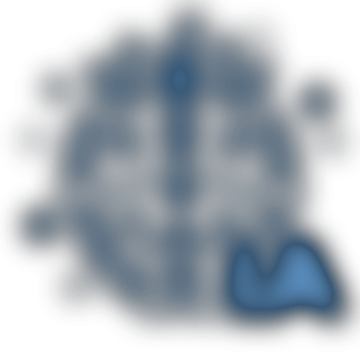
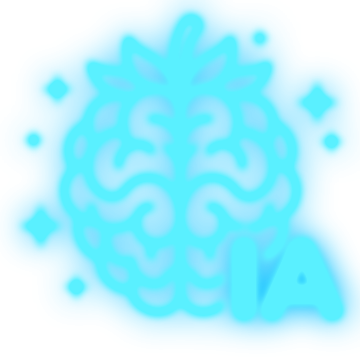
IA+: el ki rojo se mueve siempre; Entrenador IA con brillo neón cian
El aura del botón IA+ se detenía para siempre si el botón se creaba antes de que
su pantalla estuviera a la vista (o al salir y volver). Ahora solo se salta el
cuadro mientras no se ve. El ícono Entrenador IA del inicio tiene un halo neón
cian continuo con un pulso leve y un parpadeo corto de vez en cuando.

Claude-Session: https://claude.ai/code/session_01AQtHHbNtiHMaVCGrhptX3t

diff --git a/ui/screens.py b/ui/screens.py
@@ -767,7 +767,7 @@ class StartIcon(ButtonBehavior, BoxLayout):
     source = StringProperty()
     bubble = StringProperty("")
     glow = StringProperty("")
-    glow_level = NumericProperty(.55)   # brillo que «respira» (Entrenador IA)
+    glow_level = NumericProperty(.82)   # brillo neón (Entrenador IA)
     label = StringProperty()
     color = ColorProperty([0, 0, 0, 1])
     diameter = NumericProperty(dp(130))
@@ -821,13 +821,9 @@ class StartScreen(MDScreen):
         Clock.schedule_once(lambda *_: self.refresh(), 0)
 
     def on_enter(self, *_):
-        delay = 0
         if getattr(self, "_intro_ready", False):
             self._intro_ready = False
             self._play_intro()
-            delay = 1.0
-        self._breath_ev = Clock.schedule_once(lambda *_: self._breathe(), delay)
-
         self._t0 = time.monotonic()
         self._float_ev = Clock.schedule_interval(self._float, 1 / 30)
 
@@ -841,15 +837,21 @@ class StartScreen(MDScreen):
             k = math.sin(t * 1.5 + phase)
             w.bob = dp(4) * k
             w.pulse = 1 + .035 * math.sin(t * 1.5 + phase - .9)
+        self.ids.ic_ai.glow_level = self.neon(t)
+
+    @staticmethod
+    def neon(t: float) -> float:
+        """Brillo del Entrenador IA como un tubo de neón: encendido, con un pulso leve y,
+        cada tanto, un parpadeo corto (dos destellos)."""
+        level = .82 + .12 * math.sin(t * 2.2)
+        k = t % 7.0
+        if 5.0 < k < 5.08 or 5.16 < k < 5.22:
+            level = .35
+        return level
 
     def on_leave(self, *_):
         if getattr(self, "_float_ev", None):
             self._float_ev.cancel()
-        if getattr(self, "_breath_ev", None):
-            self._breath_ev.cancel()
-        if getattr(self, "_breath", None):
-            self._breath.cancel(self.ids.ic_ai)
-            self._breath = None
 
     # ------------------------------------------------------------ animación
     def _prepare_intro(self):
@@ -868,17 +870,6 @@ class StartScreen(MDScreen):
         for i, w in enumerate((self.ids.ic_id, self.ids.ic_predio, self.ids.ic_ai, self.ids.ic_nb)):
             anim = Animation(d=.12 + .11 * i) + Animation(reveal=1, lift=0, d=.38, t="out_back")
             anim.start(w)
-
-    def _breathe(self):
-        from kivy.animation import Animation
-        if getattr(self, "_breath", None):
-            return
-        # Tres «respiraciones» y queda quieto: una animación sin fin obliga a redibujar la
-        # pantalla completa 60 veces por segundo y resta fluidez al resto.
-        step = Animation(glow_level=1, d=1.4, t="in_out_sine") + Animation(glow_level=.5, d=1.4, t="in_out_sine")
-        anim = step + step + step + Animation(glow_level=.8, d=.8)
-        self._breath = anim
-        anim.start(self.ids.ic_ai)
 
     # --------------------------------------------------------------- textos
     @staticmethod

diff --git a/tools/make_start_assets.py b/tools/make_start_assets.py
@@ -186,6 +186,17 @@ def notebook_icon():
     blob(420, (238, 218, 184), 811).save(os.path.join(UI, "blob_notebook.png"))   # ocre claro
 
 
+def neon_glow(ai):
+    """Brillo neón cian del Entrenador IA: un halo cercano intenso y otro amplio y tenue,
+    del mismo tamaño que el ícono (se dibuja detrás, alineado con las líneas)."""
+    near = tint(ai, (90, 240, 255)).filter(ImageFilter.GaussianBlur(4))
+    near.putalpha(near.split()[3].point(lambda v: min(255, int(v * 2.6))))
+    far = tint(ai, (40, 200, 255)).filter(ImageFilter.GaussianBlur(16))
+    far.putalpha(far.split()[3].point(lambda v: min(255, int(v * 1.8))))
+    far.alpha_composite(near)
+    return far
+
+
 def main():
     background()
     blob(420, (250, 214, 228), 115).save(os.path.join(UI, "blob_id.png"))
@@ -193,9 +204,7 @@ def main():
     blob(440, (46, 52, 130), 7, stars=True).save(os.path.join(UI, "blob_ai.png"))
     ai = Image.open(os.path.join(UI, "start_ai.png")).convert("RGBA")
     tint(ai, (190, 228, 255)).save(os.path.join(UI, "start_ai_night.png"))
-    glow = tint(ai, (120, 190, 255)).filter(ImageFilter.GaussianBlur(14))
-    glow.putalpha(glow.split()[3].point(lambda v: min(255, int(v * 2.2))))
-    glow.save(os.path.join(UI, "ai_glow.png"))
+    neon_glow(ai).save(os.path.join(UI, "ai_glow.png"))
     bar_icons()
     notebook_icon()
 

diff --git a/ui/arcade.py b/ui/arcade.py
@@ -609,8 +609,8 @@ def ki_texture():
 class KiButton(ButtonBehavior, Widget):
     """Botón IA+: el logo con un «ki» rojo que emana del dibujo y se evapora hacia arriba
     (volutas difusas que suben, crecen y se desvanecen, y un aura que respira). Las
-    instrucciones se crean una vez; cada cuadro solo las mueve (30 por segundo, y solo
-    mientras se ve)."""
+    instrucciones se crean una vez; cada cuadro solo las mueve (30 por segundo; mientras
+    no se ve, el cuadro no hace nada)."""
     source = StringProperty("")
     N = 7
 
@@ -653,10 +653,7 @@ class KiButton(ButtonBehavior, Widget):
 
     def _step(self, dt):
         if dt and self.get_root_window() is None:
-            if self._ev is not None:
-                self._ev.cancel()
-                self._ev = None
-            return
+            return            # pantalla oculta: no se dibuja, pero sigue andando al volver
         self._t += dt
         x, y, w, h = self.x, self.y, self.width, self.height
         beat = .5 + .5 * math.sin(self._t * 2.4)
